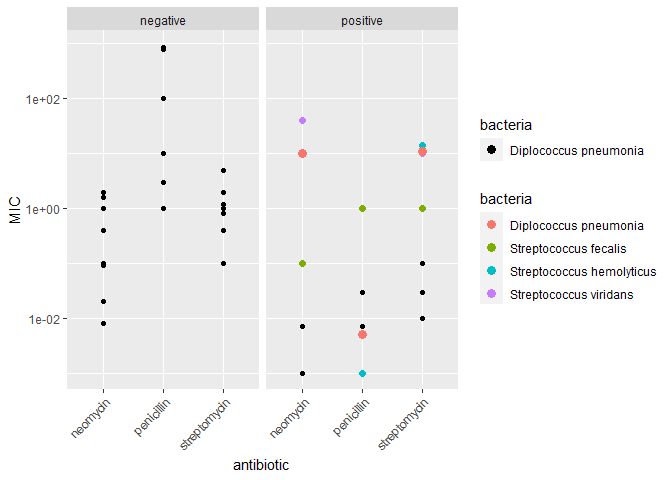
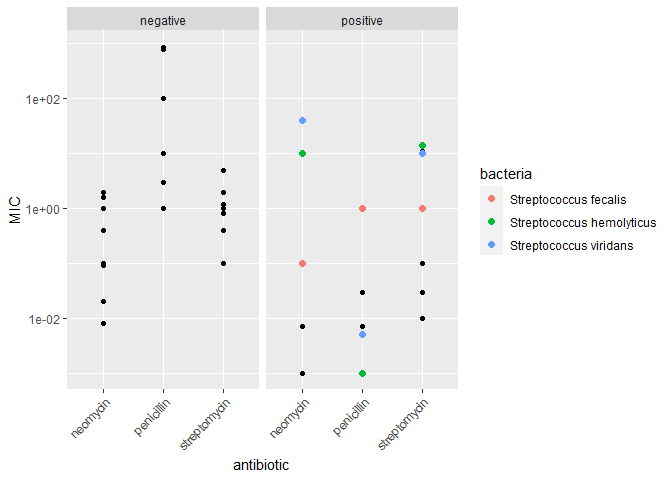
Edit challenge 5

diff --git a/challenges/c05-antibiotics-assignment.md b/challenges/c05-antibiotics-assignment.md
@@ -161,12 +161,12 @@ df_antibiotics %>%
   ) %>% 
   mutate(MIC = as.double(MIC)) %>% 
   
-  ggplot(aes(antibiotic, MIC)) +
-  geom_point(aes(color = bacteria)) +
+  ggplot(aes(bacteria, MIC)) +
+  geom_point(aes(color = antibiotic)) +
   scale_y_log10() +
   facet_wrap(~ gram) +
   theme(
-    axis.text.x = element_text(angle = 45, vjust = 1, hjust=1),
+    axis.text.x = element_text(size = 6, angle = 45, vjust = 1, hjust=1),
     legend.key.size = unit(0.3, 'cm')
   )
 ```
@@ -229,11 +229,6 @@ df_antibiotics %>%
     data = . %>% filter(startsWith(bacteria, 'Streptococcus')),
     mapping = aes(color = bacteria),
     size = 2
-  ) +
-  geom_point(
-    data = . %>% filter(bacteria == 'Diplococcus pneumonia'),
-    mapping = aes(shape = bacteria, color = bacteria),
-    size = 3
   ) +
   scale_y_log10() +
   facet_wrap(~ gram) +
